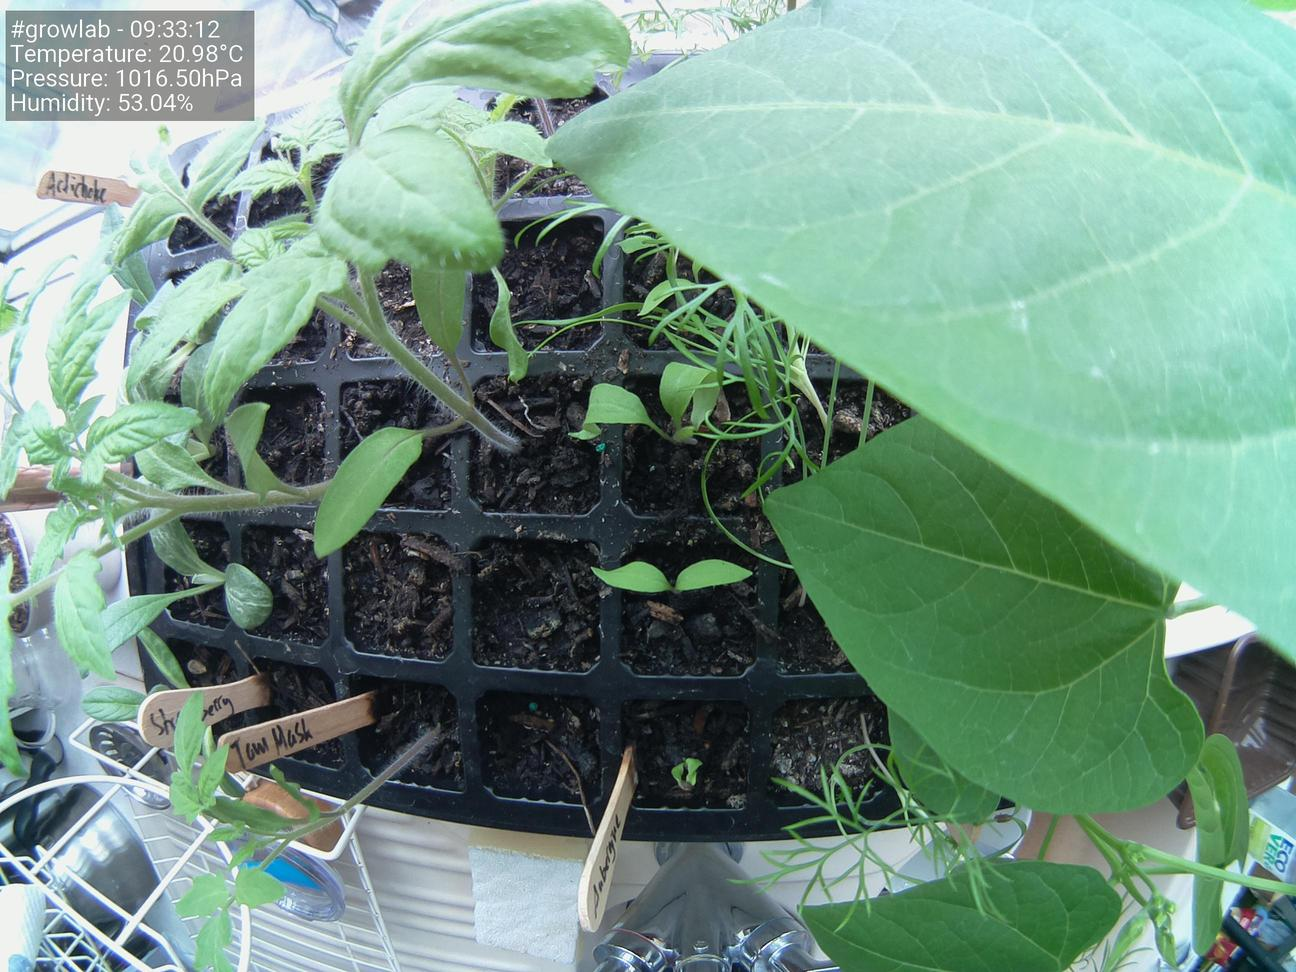
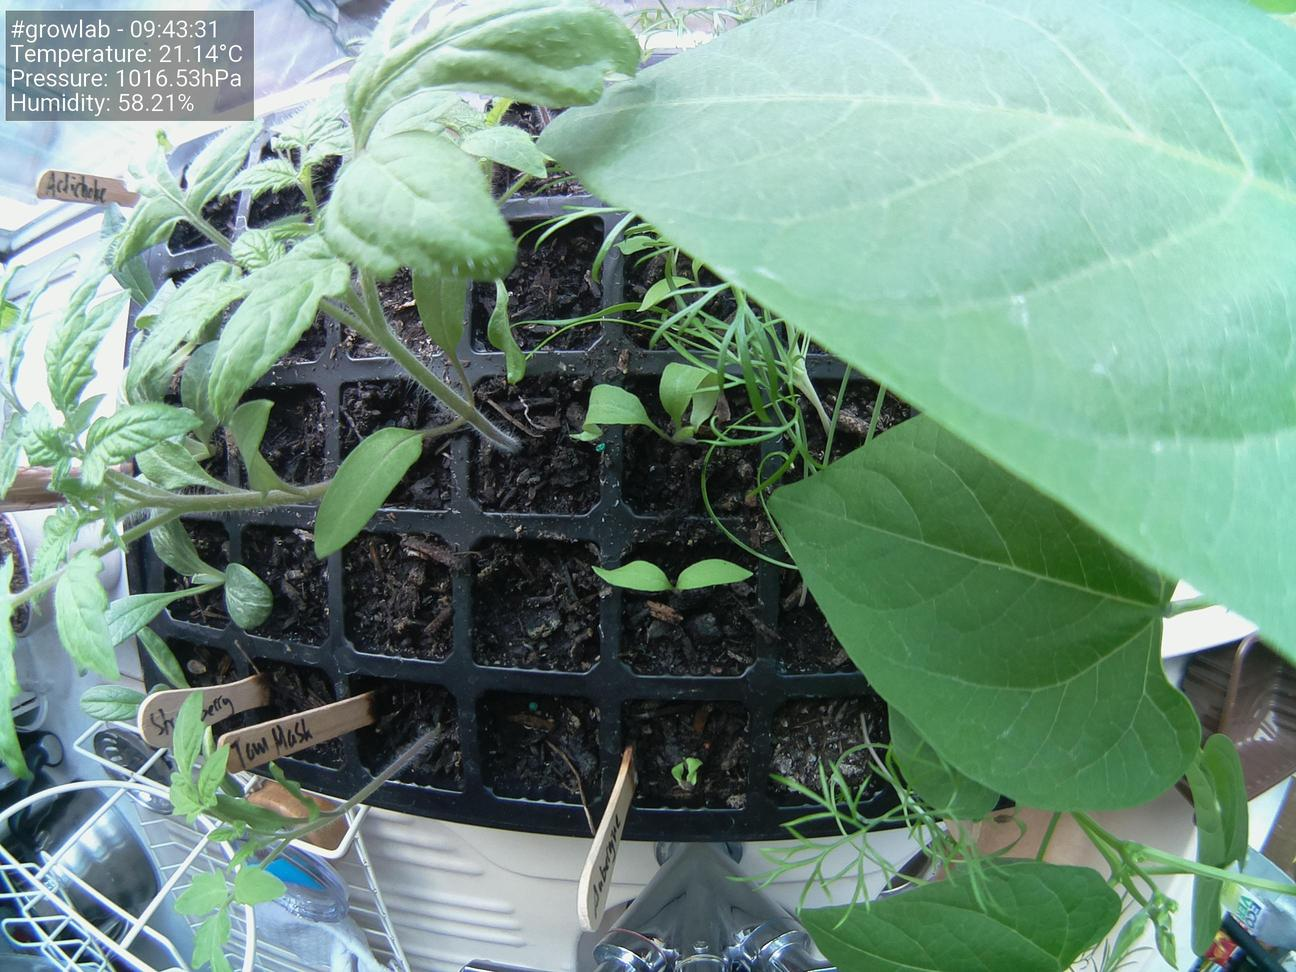
Update images at Sat  1 May 09:43:43 BST 2021

diff --git a/docs/index.html b/docs/index.html
@@ -38,19 +38,19 @@
                     <tbody>
                         <tr>
                             <td>Time</td>
-                            <td>09:33:12</td>
+                            <td>09:43:31</td>
                         </tr>
                         <tr>
                             <td>Temperature</td>
-                            <td>20.98°C</td>
+                            <td>21.14°C</td>
                         </tr>
                         <tr>
                             <td>Humidity</td>
-                            <td>53.04%</td>
+                            <td>58.21%</td>
                         </tr>
                         <tr>
                             <td>Pressure</td>
-                            <td>1016.50hPa</td>
+                            <td>1016.53hPa</td>
                         </tr>
                     </tbody>
                 </table>
@@ -58,7 +58,7 @@
 
                 <h5>Latest image</h5>
 		<div style="width: 85%;">
-	                <img class="figure-img img-fluid rounded" src="./preview.jpg?uid=1619858003.6563587">
+	                <img class="figure-img img-fluid rounded" src="./preview.jpg?uid=1619858622.7465274">
 		</div>
             </div>
         </div>
